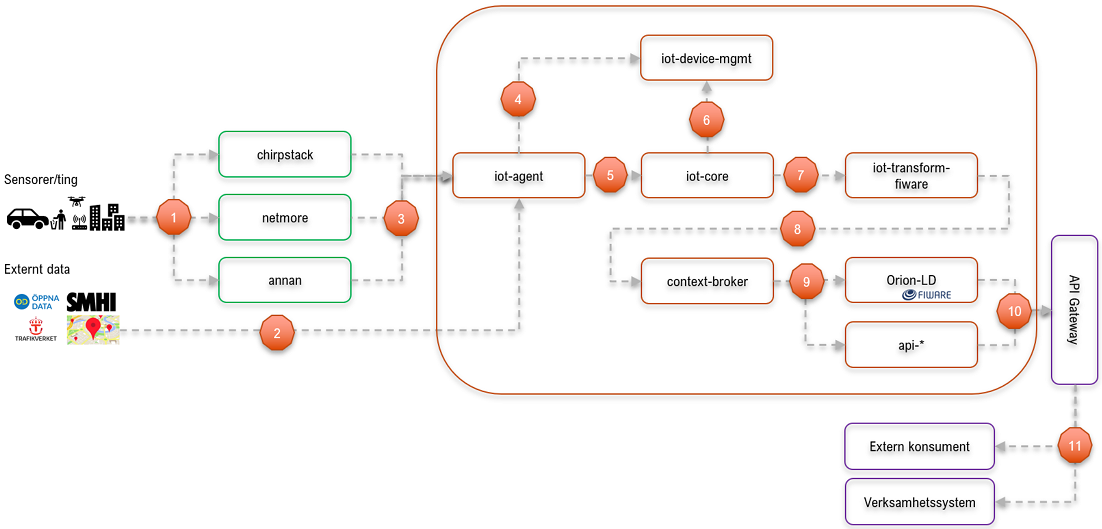
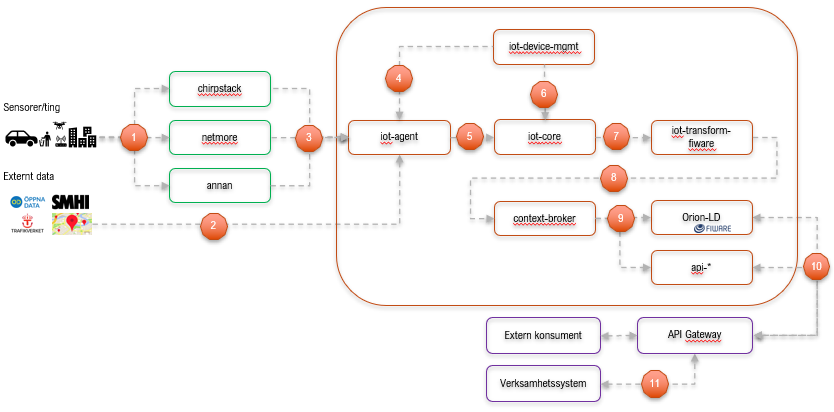
restructure

diff --git a/docs/arkitektur.md b/docs/arkitektur.md
@@ -9,14 +9,30 @@ UTKAST!
 
 
 # Målarkitektur
-
+## Bakgrund
 [Målarkitektur för IoT och dataplattform](https://smartstad.stockholm/wp-content/uploads/sites/10/2021/05/M%C3%A5larkitektur-f%C3%B6r-IoT-och-dataplattform.pdf)
+Detta dokument beskriver övergripande vad som krävs
+för realisering av en Internet of Things (IoT) och dataarkitektur som
+ligger till grund för en del av realiseringen av strategin för
+en smart och uppkopplad stad
 
 ## Förmågor och funktioner
 !['Förmågor och funktioner'](/assets/img/formagorochfunktioner.png)
 
 ### Implementation i diwise
 !['diwise'](/assets/img/diwise.png)
+
+1. data från sensor, t.ex. LoRaWAN
+2. integration med externa datakäller, t.ex. http
+3. data från applikationsserver, ofta json via mqtt
+4. hämta information om sensortypen
+5. normaliserat data skickas till iot-core
+6. data berikas med t.ex. position
+7. data skickas till transformeringstjänsten som transformerar data till Smart Data Models (FIWARE)
+8. data POST:as via http till en distribuerad [context-broker](https://github.com/diwise/context-broker)
+9. beroende på b.la. modelltyp väljs en underliggande context-broker, t.ex. Orion-LD
+10. data kan hämtas och lämnas via NGSI API. 
+11. externa system och konsumenter kommunicerar via API Gateway
 
 ### Samla in
 !['Samla in'](/assets/img/samlain.png)
@@ -30,7 +46,8 @@ med externa datakällor vars information kan vara lika viktig att
 komplettera dessa dataflöden med.
 
 #### Implementation i diwise
-[iot-agent](https://github.com/diwise/iot-agent) har som uppgift att...
+[iot-agent](https://github.com/diwise/iot-agent) har som uppgift att samla in data från olika producenter av data (sensorer, IoT-plattformar och andra externa datakällor). 
+Insamling sker via mqtt och http.
 
 <img src="/assets/img/github.png" alt="GitHub" width="34" height="31" title="GitHub">[iot-agent](https://github.com/diwise/iot-agent)
 
